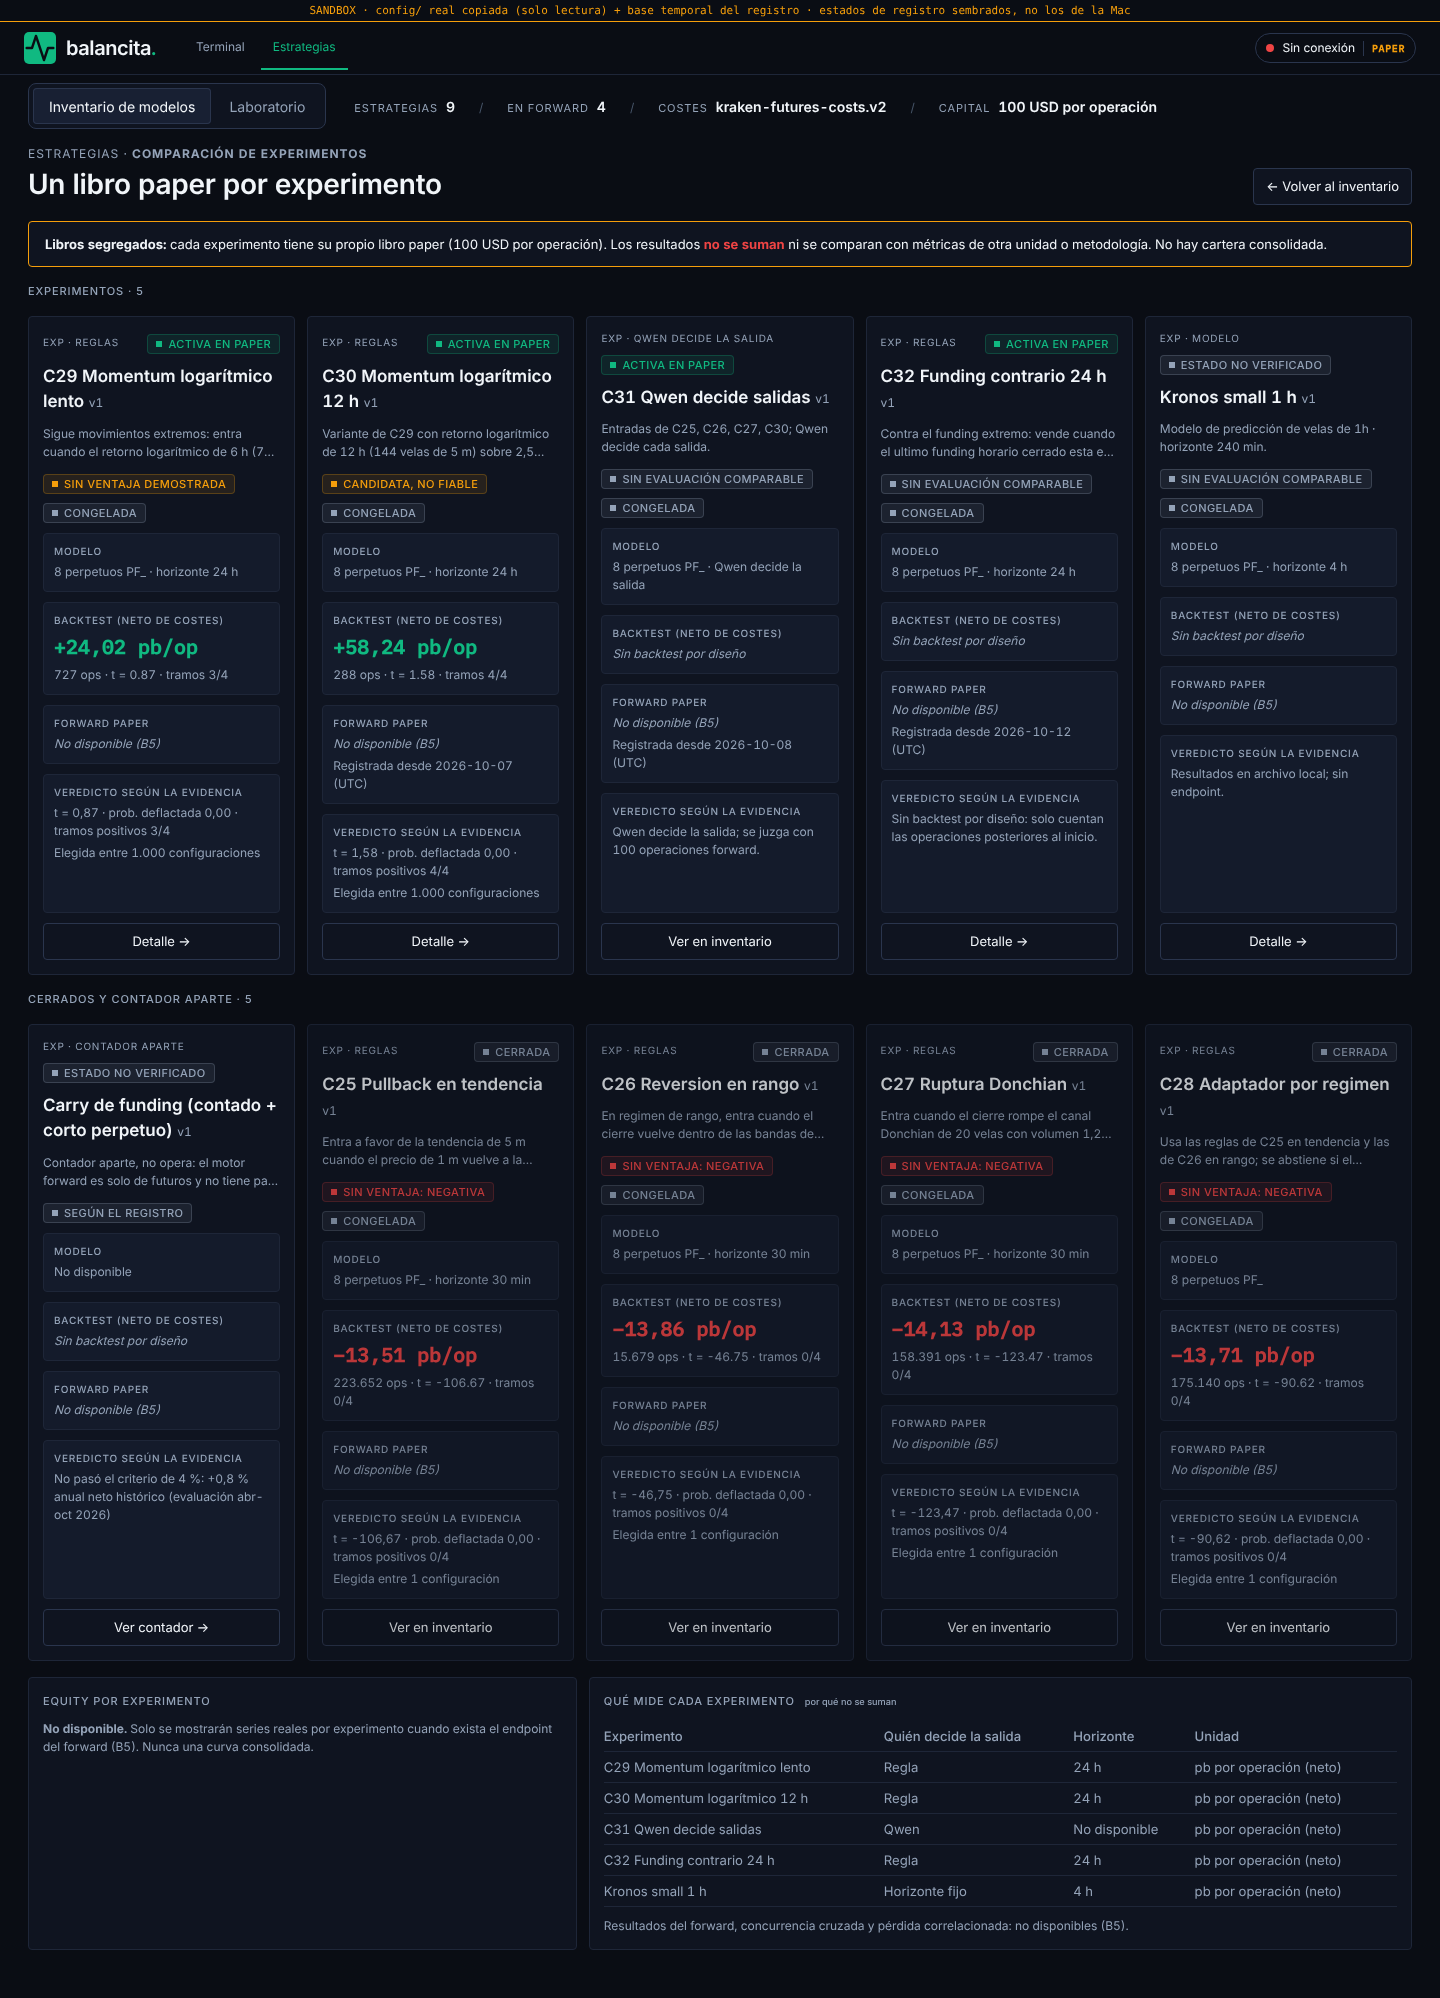
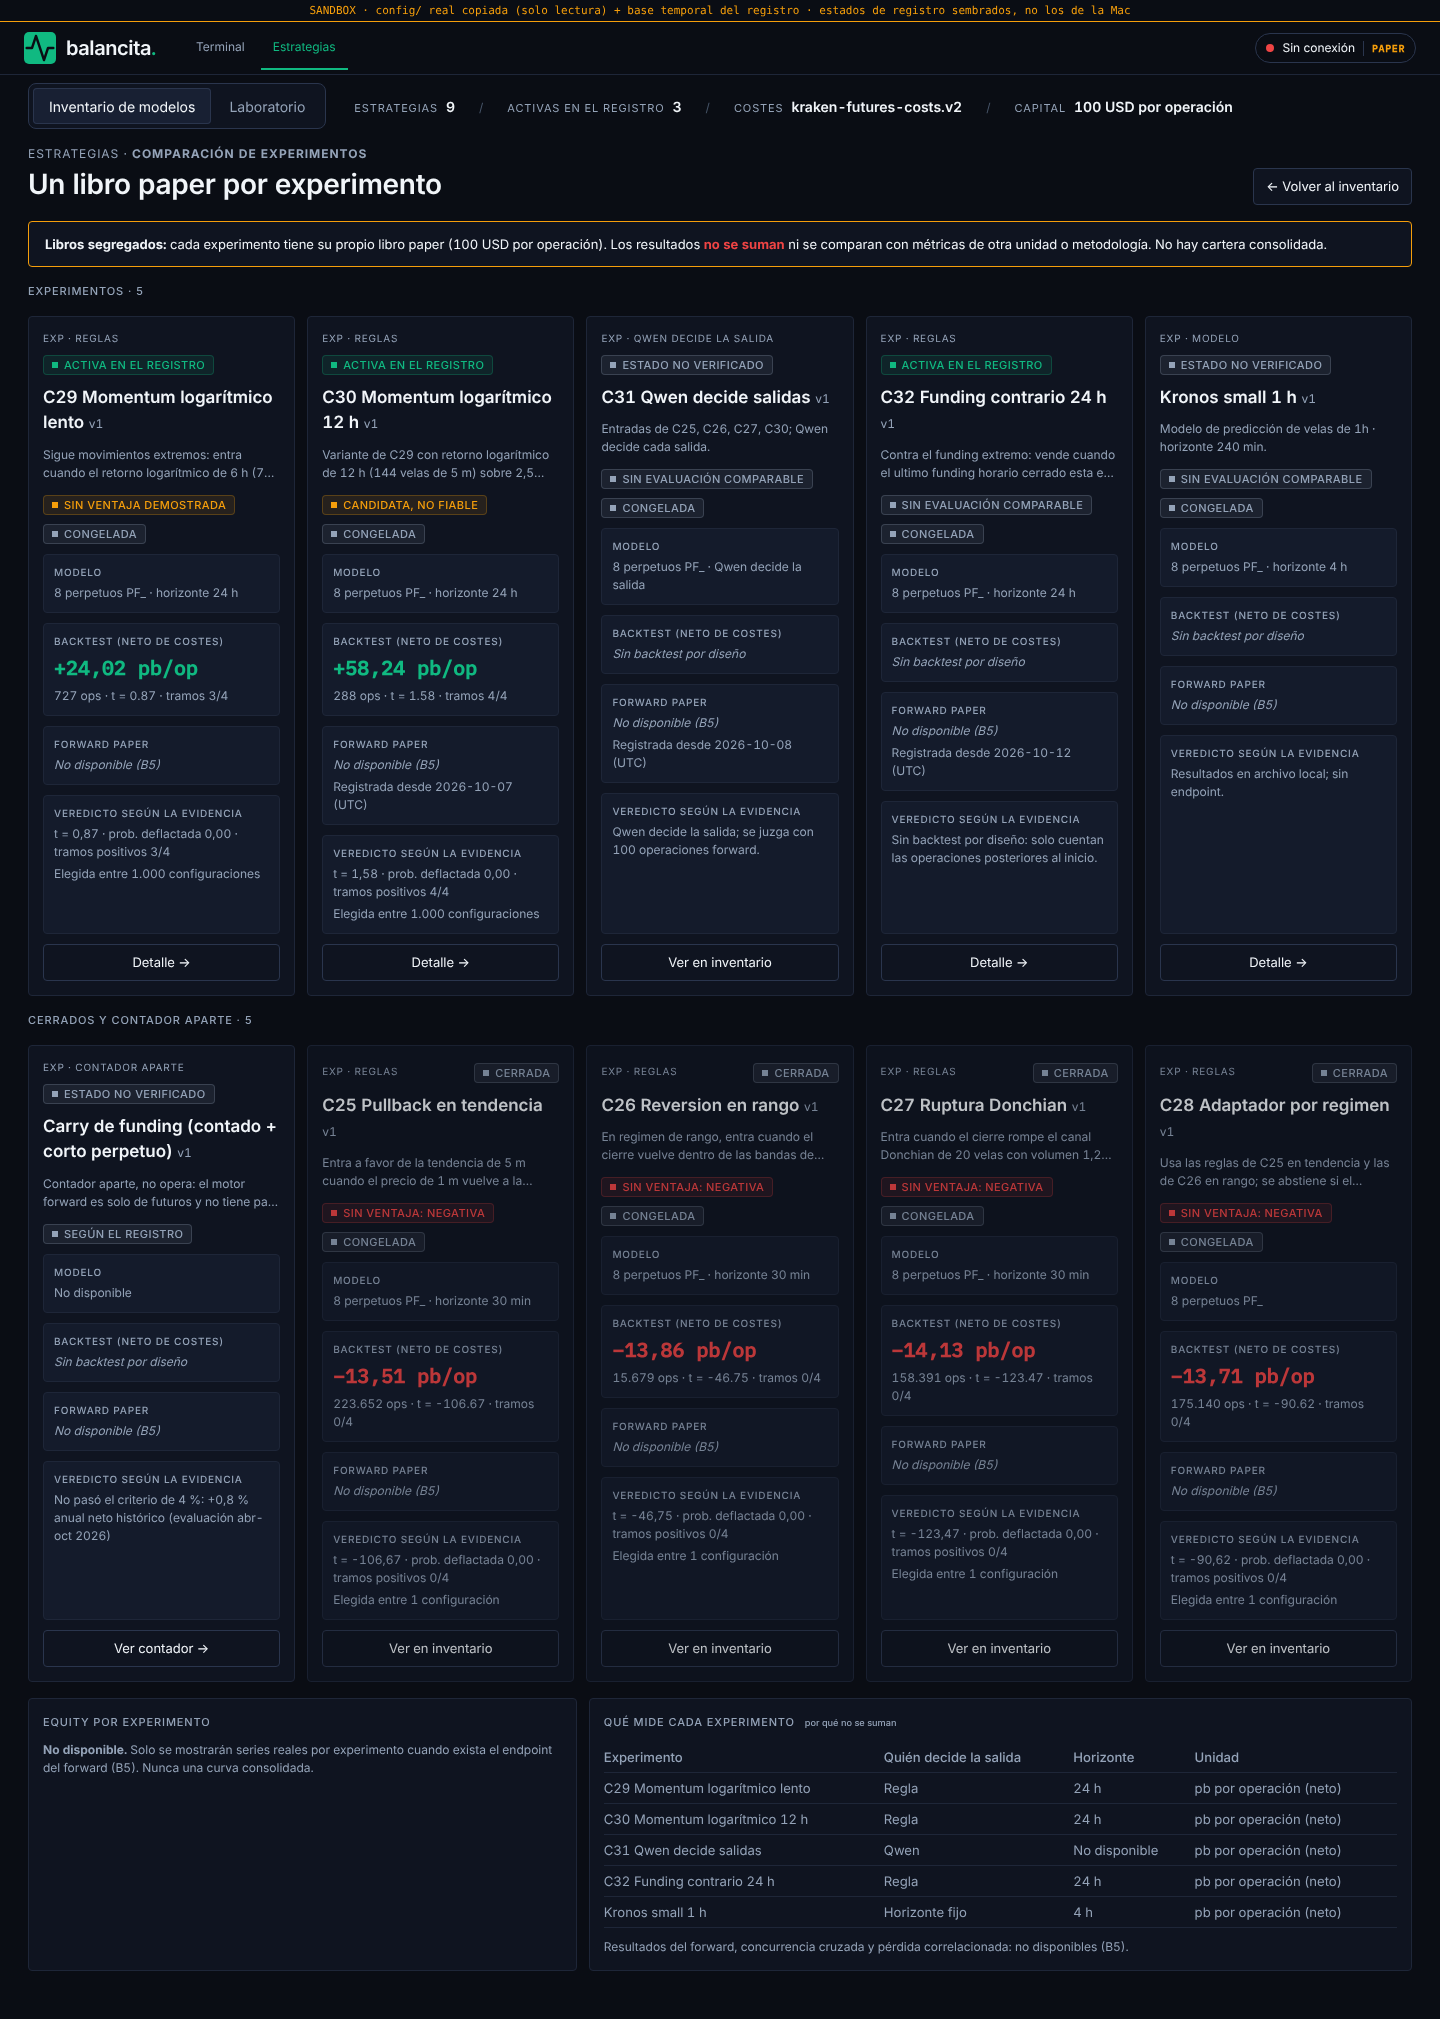
Comparación: etiquetas del módulo único tras los cambios de #156; capturas nuevas

diff --git a/e2e/estrategias-comparacion.pw.ts b/e2e/estrategias-comparacion.pw.ts
@@ -3,6 +3,7 @@ import { cpSync, mkdirSync, mkdtempSync, writeFileSync } from 'node:fs'
 import { tmpdir } from 'node:os'
 import { join } from 'node:path'
 import { expect, test, type Page } from '@playwright/test'
+import { OPERATIONAL_LABELS } from '../src/features/strategy-lab/domain/strategy-labels.ts'
 
 /*
  * Experiment comparison against the REAL strategy registry S, no route mocks (temp
@@ -139,7 +140,7 @@ test('Ver comparación shows one separate book per experiment from the real regi
   ).toHaveText('Candidata, no fiable')
   await expect(
     card('c30-momentum-12h-perp-v1').getByTestId('operational-badge'),
-  ).toHaveText('Activa en paper')
+  ).toHaveText(OPERATIONAL_LABELS.active)
   // Kronos has no source for its state; Carry keeps the registry's state.
   await expect(
     card('kronos-small-1h-h4-v1').getByTestId('operational-badge'),

diff --git a/src/features/strategy-lab/presentation/ComparisonView.test.tsx b/src/features/strategy-lab/presentation/ComparisonView.test.tsx
@@ -1,6 +1,7 @@
 import { render, screen, within } from '@testing-library/react'
 import userEvent from '@testing-library/user-event'
 import { describe, expect, it, vi } from 'vitest'
+import { OPERATIONAL_LABELS } from '../domain/strategy-labels.ts'
 import ComparisonView from './ComparisonView.tsx'
 import InventoryView from './InventoryView.tsx'
 import { exampleInventory, exampleRow } from '../testing/inventory-fixture.ts'
@@ -85,7 +86,7 @@ describe('ComparisonView (datos de ejemplo)', () => {
     )
     expect(
       within(card('x1')).getByTestId('operational-badge'),
-    ).toHaveTextContent('Activa en paper')
+    ).toHaveTextContent(OPERATIONAL_LABELS.active)
     expect(
       within(card('x4')).getByTestId('operational-badge'),
     ).toHaveTextContent('Estado no verificado')
